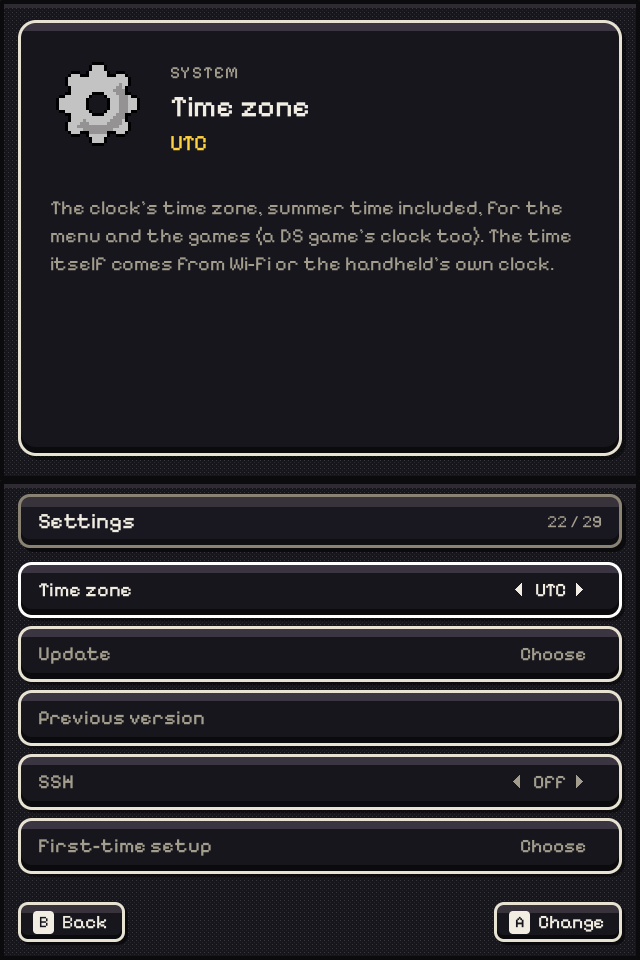
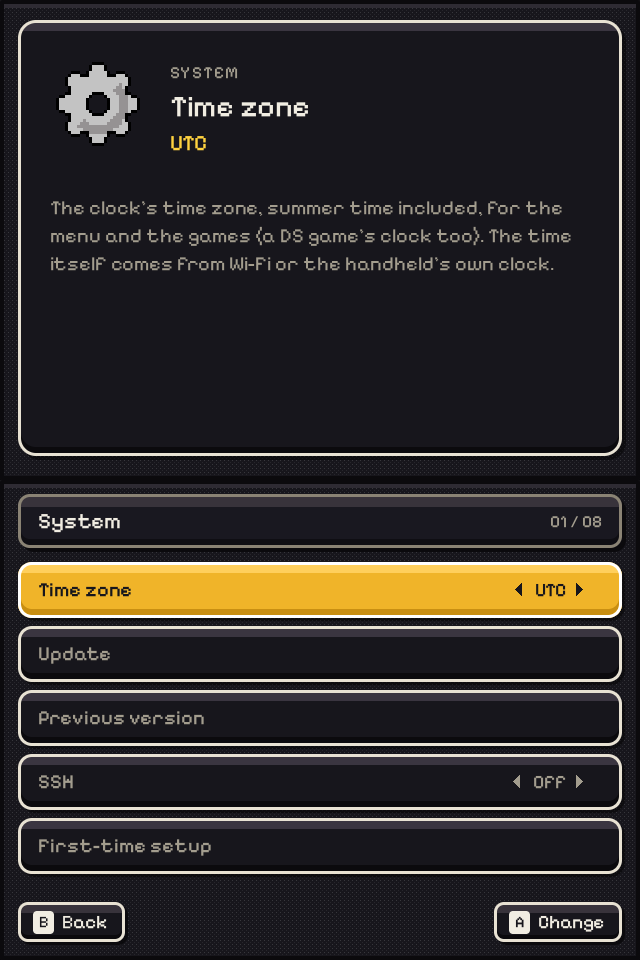
README: how Banana works now, with new pictures
The warning no longer says no image has booted: Banana runs on an RG DS and an RG DS Plus. What it is:
Settings' groups, the keyboard, the setup's RetroAchievements check, the notifications in ROCKNIXDS's look,
the DS emulators (BananaDS's RetroAchievements and online play), the apps (Döda Kvarter, Bank & Trade,
PICO-8, PortMaster). Status: what has been seen on the hardware, what is missing or rough (the menu's speed
on the RG DS Plus, scraping, Bluetooth, one card for both), and the off-device checks.

Pictures: the settings' groups, a group's list, the System group, the keyboard and the setup from
make test's renders (made-up games), and the volume pill photographed off an RG DS Plus's panel.

Changed region(s): [[0.0312, 0.5312, 0.9688, 0.6875], [0.8125, 0.875, 0.9062, 0.9062]]

diff --git a/README.md b/README.md
@@ -6,9 +6,9 @@
 sleeps when you close the lid, and gives the games every cycle.</b></p>
 
 > [!WARNING]
-> Banana is at its start (0.1.0-dev). Everything here builds and is tested off the device (see *Status*), but no
-> image has booted on an RG DS yet. Don't flash it expecting a working handheld; if you do, [docs/FIRST-BOOT.md](docs/FIRST-BOOT.md)
-> says what to try and which logs to send back.
+> Banana is a pre-alpha (0.1.0-dev). It boots and plays on both handhelds (an RG DS and an RG DS Plus run it
+> day to day), but things are still missing and some are rough (see *Status*). If you try it,
+> [docs/FIRST-BOOT.md](docs/FIRST-BOOT.md) says which logs to send back when something goes wrong.
 
 ## What it is
 
@@ -20,15 +20,19 @@ saves, settings) goes on an exFAT partition any computer can open.
 | | |
 |---|---|
 | **The menu** | ROCKNIXDS Pixel, the same engine (imported unchanged from ROCKNIXDS) drawn in software straight onto both panels by `banana-ui`: the system shelf, DS cartridges with their label art, box covers, play stats, the cartridge sliding into the console. Dark and light. Banana's mark is the BananaUI bunch redrawn as pixel art in the theme's icon style, and Banana's palette is over the theme's (`tools/banana-palette.sh`): warm neutrals in place of the blue-greys, banana yellow in place of the blue accents. |
-| **First boot** | A setup on the first start after the installation: Wi-Fi, the time zone, a RetroAchievements account (DraStic and RetroArch unlock with it) and a ScreenScraper account (for the art, when it is fetched). Skippable, and back any time from Settings > System. |
-| **Settings** | Start in the menu: theme, brightness, motion, sounds, clock, the boot animation, sleep when idle, the lid, the LEDs, the DS renderer, shader and 3D resolution, Wi-Fi (the networks around, the password on an on-screen keyboard), file sharing, the time zone, About, restart and shut down. In the same look, applied at once. |
+| **First boot** | A setup on the first start after the installation: Wi-Fi, the time zone, a RetroAchievements account and a ScreenScraper account (for the art, when it is fetched). The RetroAchievements account is checked with the server as soon as the password is typed, and a pop-up says whether it worked ("Logged in as ... · points", or a wrong name or password, or no connection). Skippable, and back any time from Settings > System. |
+| **Settings** | Start in the menu opens six groups as tiles, in the in-game menu's look: Display & sound, Sleep & power, Nintendo DS, Other systems, Network and System. A opens a group's own list, B goes back to the tiles, L and R go to the next group. Theme, accent colour, brightness, motion, volume, sounds, clock, the boot animation; sleep when idle, the lid, the LEDs; the DS emulator, renderer, shader, 3D resolution and BananaDS's options; Wi-Fi, the networks around, file sharing; the time zone, updates, SSH, About, restart and shut down. Applied at once. |
+| **Keyboard** | For Wi-Fi passwords and accounts: what is being typed sits in a field right above the keys, the selected key is the menu's yellow, and the chips at the bottom say what the buttons do (B deletes, X capitals, L symbols, Y a space, START done). Or tap the keys. |
+| **Notifications** | ROCKNIXDS's look, in the menu and in DS games: the volume and brightness keys show a pill at the top of the top screen (a speaker or a sun, a 10-segment bar, the percent); RetroAchievements cards slide in along the top during a game (logged in, the game loaded with its progress, an achievement unlocked with its badge). |
 | **Boot animation** | From banana-ui's first frame, while the library loads on another thread: the bunch drops onto the top panel and BANANAOS types itself in (BANANA in banana yellow, OS in white); on the bottom panel the BANANA cartridge goes into the console (the back of a DSi XL as pixel art, filling the panel: the card slot in its top edge, SLOT-1, the screws, the power light, the battery cover, the BANANAOS wordmark where the maker's is, the fine print) with the menu's own insert motion, clicks, and the power light turns green. Then it dissolves into the menu. |
 | **Light** | The menu draws a frame in well under a millisecond when only one screen changes, skips any screen whose content didn't change, and sleeps in `poll()` between frames. While a game runs it closes the display, the input devices and the sound device: the game has the handheld to itself. |
 | **Sleep** | Close the lid and it is asleep in a moment: the game paused where it was, the card flushed, the handheld suspended to RAM. Open it and the game carries on as the panels light up: the game and the menu are resumed first, Wi-Fi and the rest catch up behind them, and the devices resume in parallel. Woken with the lid shut (the power button in a bag) it goes straight back to sleep. While asleep it checks the battery every 4 hours and shuts down cleanly (the game saves first) before it could run flat. Two idle minutes in the menu dim the panels, ten put it to sleep; hold power to shut down. The menu warns at 20%, 10% and 5%. (`bananad`, tested in `system/bananad/tests/sleep-test.sh`) |
 | **Updates** | A new version is one file dropped in `banana/updates` on the card (over Wi-Fi, with file sharing) and Settings > System > Update: it is written to the card's second system slot, checked, and runs from the next restart; the version before stays one restart away (`Previous version`). |
 | **File sharing** | Switch it on in the settings and the card is on your network as `\\<address>\banana` (Windows) or `smb://<address>/banana` (Mac): copy games in and they show up in the menu. The kernel's own SMB3 server, loaded only while it is on. |
 | **Other systems** | RetroArch 1.22 on one panel (top by default; the other panel and its backlight go off), KMS + GLES, with its RGUI pixel menu and cores built for the RK3566's Cortex-A55 with their ARM64 recompilers: GBA (gpSP), Game Boy (Gambatte), NES (FCEUmm), SNES (Snes9x), Mega Drive (PicoDrive), PlayStation (PCSX ReARMed), N64 (Mupen64Plus-Next). |
-| **Performance** | DS games run through [SuperDrastic](https://github.com/JorreFog/SuperDrastic) or BananaDS (melonDS's core with SuperDrastic's display path, in the image, chosen in Settings > Nintendo DS > Emulator; see [docs/EMULATORS.md](docs/EMULATORS.md)): each DS screen straight to its own panel, 2x resolution, a per-game CPU governor. Every system gets a clock profile (`banana-perf`); the menu runs at the lowest clocks. |
+| **Nintendo DS** | Two emulators, chosen in Settings > Nintendo DS > Emulator ([docs/EMULATORS.md](docs/EMULATORS.md)): [SuperDrastic](https://github.com/JorreFog/SuperDrastic) (DraStic) and BananaDS (melonDS's core with SuperDrastic's display path). Both put each DS screen straight onto its own panel at 2x with a per-game CPU governor, and both have the in-game menu on L3 (save and load with pictures, quick settings, shaders). BananaDS also has RetroAchievements (the setup's account, softcore) and online play through Nintendo WFC (Kaeru), with nothing to set up; with a shader it keeps 60 frames a second on the RG DS Plus's larger panels. |
+| **Apps** | Döda Kvarter and ROCKNIXDS Bank & Trade on tiles of their own, PICO-8 (fake-08, or the official PICO-8 when it is on the card), and PortMaster with its ports, as on ROCKNIX. |
+| **Performance** | Every system gets a clock profile (`banana-perf`); the menu runs at the lowest clocks. |
 | **Boot** | U-Boot with no delay, a kernel with the panels, buttons, touch and sound built in (no module loading before the menu), no initramfs, root mounted by the kernel, and an init script that only mounts the data partition before the menu starts. |
 
 <p align="center">
@@ -37,13 +41,21 @@ saves, settings) goes on an exFAT partition any computer can open.
   <img src="docs/img/menu-ready.png" width="248" alt="The ready screen: the cartridge going into the console">
 </p>
 <p align="center">
-  <img src="docs/img/menu-settings.png" width="248" alt="The settings screen: the selected setting's icon, name, value and description on the top screen; the list of settings as slots with left and right arrows on the bottom">
-  <img src="docs/img/menu-settings-system.png" width="248" alt="The settings screen on the System section: the time zone set to London, Dublin, Lisbon, then About, Restart, Shut down">
-  <img src="docs/img/menu-wifi.png" width="248" alt="Joining a Wi-Fi network: the password typed so far on the top screen, an on-screen keyboard on the bottom">
+  <img src="docs/img/menu-settings.png" width="248" alt="Settings: six groups as tiles on the bottom screen (Display & sound selected, in yellow), the group's settings listed on the top screen">
+  <img src="docs/img/menu-settings-display.png" width="248" alt="A group's list: Display & sound with Theme, Accent colour, Brightness, Motion and Volume, each with its value between arrows; the selected setting described on the top screen">
+  <img src="docs/img/menu-settings-system.png" width="248" alt="The System group: the time zone, Update, Previous version, SSH, First-time setup">
+</p>
+<p align="center">
+  <img src="docs/img/menu-wifi.png" width="248" alt="The keyboard for a Wi-Fi password: the text typed so far in a field above the keys, the selected key in yellow, chips for B delete, X shift, Y space and START join">
+  <img src="docs/img/menu-setup.png" width="248" alt="The first-time setup: Wi-Fi, Time zone, RetroAchievements, ScreenScraper and Finish">
   <img src="docs/img/menu-battery.png" width="248" alt="The low-battery notice over the top screen: the battery icon nearly empty in red, Battery nearly empty: 4%, save your game now">
 </p>
 <p align="center"><sub>banana-ui's own frames (headless renders, <code>make test</code>), with a test library of made-up games.
 Start opens the settings.</sub></p>
+<p align="center">
+  <img src="docs/img/device-volume.png" width="512" alt="On an RG DS Plus: the volume pill over the top of the top screen, a speaker, three of ten segments lit and 25%">
+</p>
+<p align="center"><sub>On an RG DS Plus: a volume key pressed in the menu (the same pill shows during DS games).</sub></p>
 <p align="center">
   <img src="docs/img/qemu-library.png" width="248" alt="The DS library as the whole system shows it in QEMU: the game's cartridge on the bottom panel, its page on the top">
   <img src="docs/img/qemu-update.png" width="248" alt="Settings > System > Update in QEMU after an update was written to the other slot: Written, restart to run it">
@@ -72,39 +84,31 @@ Banana runs on these two handhelds only, and is built around them:
 
 ## Status
 
-Built and checked in this repository's CI and by hand:
+On the hardware (an RG DS and an RG DS Plus, October 2026):
 
-- `banana-ui` builds (x86-64 and aarch64) and renders all three views at both panel sizes; ROCKNIXDS Pixel's
-  frames are pixel-identical to the engine's own output apart from Banana's logo. `make test` checks the
-  navigation and the launch.
-- `bananad` and `banana-panel-tune` build without warnings for aarch64; the tuner, run on the real device trees,
-  leaves the RG DS's measured timing alone and brings the RG DS Plus's from 60.17 to 59.9994 Hz.
-- The boot animation renders at both panel sizes (`make test` shoots it at three moments).
-- The settings' Wi-Fi pages run against a stand-in `wifi` script in `make test`: the network list, a password typed
-  by touch on the on-screen keyboard, joining, forgetting, open and WPA3-only networks, checked in the `wifi.conf`
-  they write. The low-battery notice, the time zone (all 30 rules against the tz database) and a DS ROM's icon read
-  out of a `.zip` are checked there too.
-- Measured inside the VM over SSH: 95 MB used in all on a 1 GB machine idle in the menu (kernel included),
-  banana-ui 23.5 MB, bananad 1.6 MB, the CPUs 99% idle. The kernel is 23 MB, built for these two handhelds only.
-- `bananad`'s sleep runs against a made-up `/sys` in its own namespaces (`system/bananad/tests/sleep-test.sh`, in
-  CI); the SSH script against a real dropbear.
-- Both Buildroot defconfigs load in Buildroot 2026.02.3 with every option kept.
-- RetroArch (with exactly the package's configure options) and all seven cores build and link for aarch64 against
-  an arm64 sysroot here; banana-ui links against the real arm64 libraries, and the aarch64 banana-ui, run under
-  QEMU, draws the boot animation, the menu and the settings the same as the x86 build (at most 1 colour level
-  apart, from fused multiply-adds).
-- ROCKNIX's 43 RK3566 kernel patches plus the input-polldev patch apply to Linux 7.2.7 as ROCKNIX applies them (patch -p1; the two Bluetooth patches are left out, Bluetooth being off in Banana's kernel), the kernel config
-  fragment applies as written, and the whole kernel builds (a 25 MB `Image`) with the panels, joypad, touch, codec,
-  amplifiers and battery built in; the RG DS and RG DS Plus device trees compile.
+- Both boot from the card into the menu (the RG DS Plus: the panels on at 4.4 s and the menu at 7.1 s after the
+  kernel starts), updates install from Settings > System > Update into the other slot, and the first boot's
+  setup, Wi-Fi and SSH work.
+- DS games in both emulators with the in-game menu on L3; BananaDS keeps 60 frames a second with a shader on the
+  RG DS Plus, logs in to RetroAchievements and shows its pop-ups, and has played Mario Kart DS online through
+  Nintendo WFC.
+- The RG DS Plus's speakers: the volume keys and Settings > Volume change both AW88166 amplifiers (their
+  `Left PCM` and `Right PCM` controls, which count down: `/usr/libexec/banana/volume`), and the level is kept.
+- Hundreds of games on the card (GBA, N64, SNES and DS) are listed by the menu.
 
-- The whole system boots end to end in QEMU (`tools/qemu-boot.sh`): the kernel, init, the first boot's
-  partitioning and exFAT, bananad, the menu on two virtual panels, a game started from the library and the menu
-  back, a shutdown from the settings, the card's logs afterwards. The CI's `boot` job runs it on every image it
-  builds.
+Not done yet, or rough: the menu is drawn by the CPU and feels slow on the RG DS Plus's 1024x768 panels (both
+panels are drawn in full on one core); scraping box art (no scraper yet: the ScreenScraper account is only kept);
+Bluetooth; one card for both handhelds (each has its own image for now). See [docs/ROADMAP.md](docs/ROADMAP.md).
 
-Not done yet: a full image build (it needs the network access Buildroot downloads with; the CI's `image` job does
-it), and anything on the hardware: the boot time, suspend and resume of the panels and Wi-Fi, the panels' handover
-to SuperDrastic, the RG DS Plus's sound routing and panel tuning on a real unit. See [docs/ROADMAP.md](docs/ROADMAP.md).
+Off the device, in this repository's CI and by hand:
+
+- `banana-ui` builds (x86-64 and aarch64) and renders its views at both panel sizes; `make test` checks the
+  navigation, the launch, the settings' groups, the Wi-Fi pages against a stand-in `wifi` script (the network
+  list, a password typed by touch, joining, forgetting, open and WPA3-only networks), the setup's accounts, the
+  low-battery notice, the time zone and a DS ROM's icon read out of a `.zip`.
+- `bananad`'s sleep runs against a made-up `/sys` in its own namespaces (`system/bananad/tests/sleep-test.sh`).
+- The whole image boots in QEMU on every CI image build (`tools/qemu-boot.sh`): the first boot's partitioning, the
+  menu on two virtual panels, a game started and the menu back, a shutdown from the settings.
 
 ## Build
 
